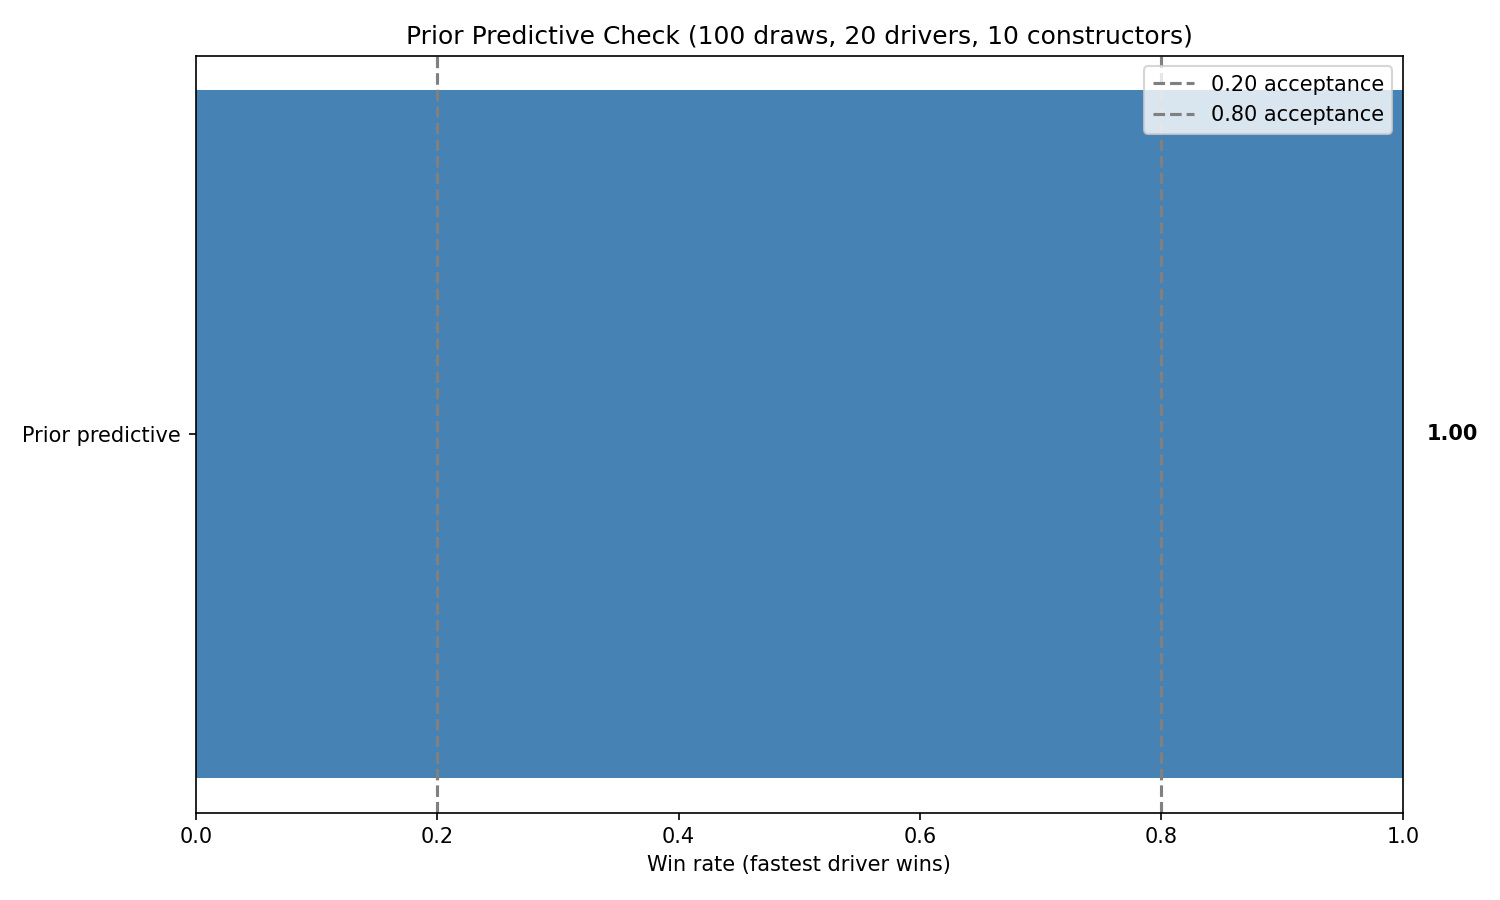
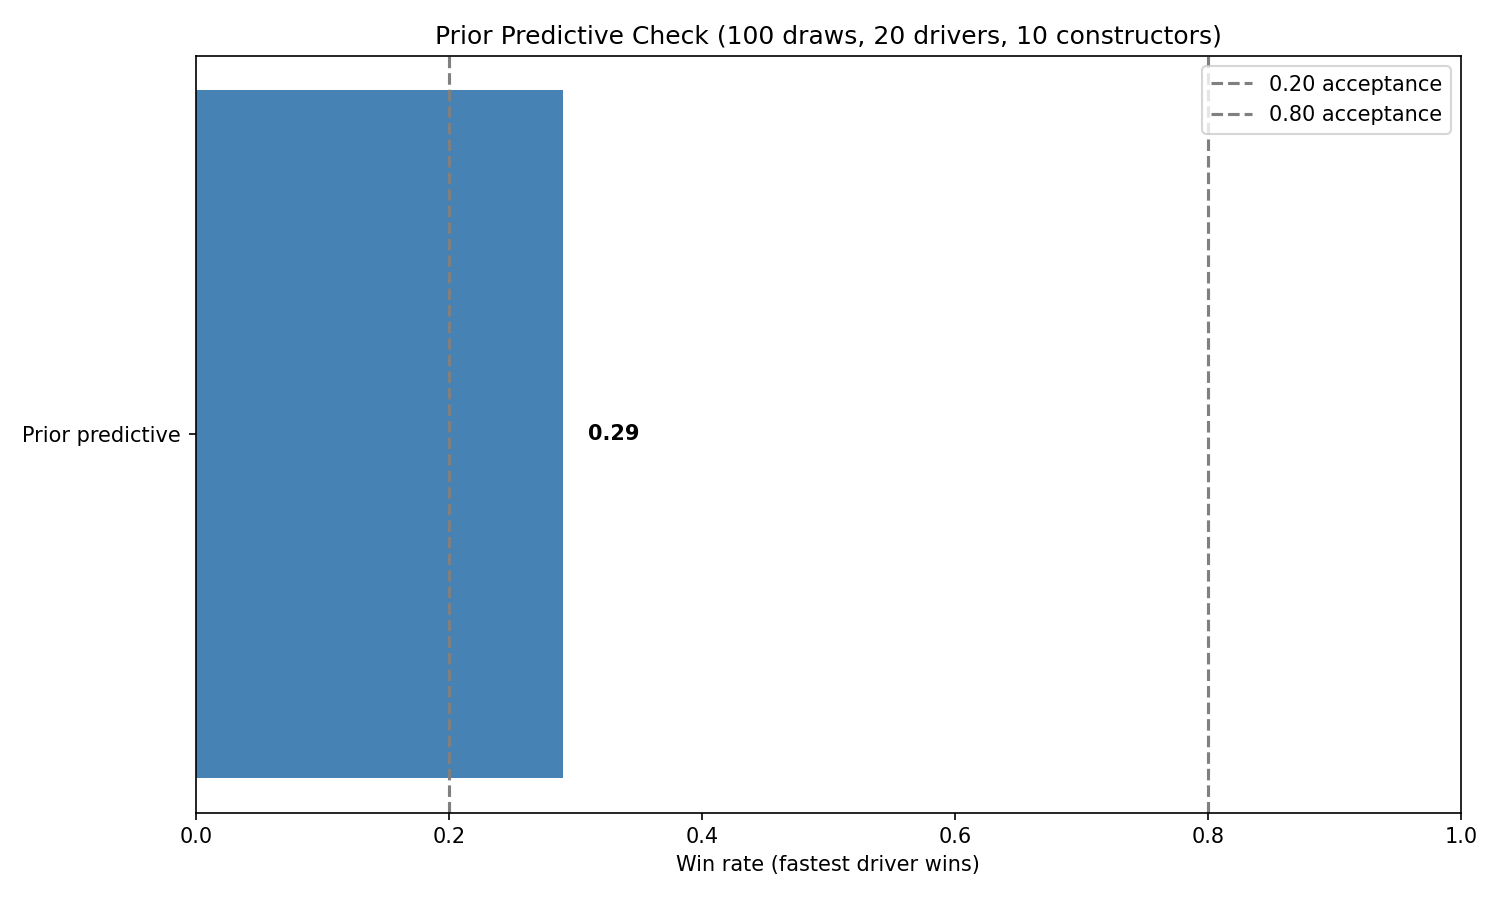
T8 review: fix prior predictive plot bug, mark all tasks complete

diff --git a/models/pgm_backend/run_pgm.py b/models/pgm_backend/run_pgm.py
@@ -94,12 +94,13 @@ def _plot_prior_predictive():
         fastest_driver = p.argmax().item()
 
         remaining = list(range(D))
-        for _ in range(D):
+        for pos in range(D):
             scores = p[torch.tensor(remaining)]
             probs = torch.softmax(scores, dim=0)
             pick = torch.multinomial(probs, 1).item()
             if remaining[pick] == fastest_driver:
-                fastest_won += 1
+                if pos == 0:
+                    fastest_won += 1
                 break
             remaining.pop(pick)
 

diff --git a/CURRENT_TASK.md b/CURRENT_TASK.md
@@ -1,337 +1,34 @@
 # Current Task
 
-**Status:** READY FOR HANDOFF  
-**Task ID:** T8  
+**Status:** ALL IMPLEMENTATION COMPLETE
+**Task ID:** T8 (final task)
 **Task name:** Posterior Extraction + Orchestrator + Plots
 
 ---
 
-## Context
+## Summary
 
-Read `CLAUDE.md` for project overview, tech stack, architecture constraints, and your role.  
-This file contains everything you need to implement the current task. Do not look elsewhere.
+All tasks T1–T8 have been implemented and verified. The full PGM pipeline is operational.
 
----
+### Final review outcome for T8
 
-## Context from T7
+- [x] `posterior.py` created with `extract_posterior()` — handles baseline, extended, full
+- [x] `run_pgm.py` created with `main()` — trains all 3 models, exports CSVs, generates 10 plots
+- [x] End-to-end pipeline executes without errors (runtime ~13 min on M1 Pro CPU)
+- [x] All 4 CSVs written: `baseline_posterior.csv`, `extended_posterior.csv`, `full_posterior.csv`, `nuts_vs_svi_comparison.csv`
+- [x] All 10 PNG plots written to `outputs/pgm_model/plots/`
+- [x] `pytest models/pgm_backend/tests/ -v` passes (4/4 tests)
+- [x] ELBO curves decrease; temporal plots show expected peaks; beta_pi centred at +0.26
 
-### All three models built and training successfully
-- `model_baseline.py` — static skills, SVI + NUTS
-- `model_extended.py` — AR(1) temporal skills, circuit effects, global weather
-- `model_full.py` — adds `delta_d` wet-weather interaction, `beta_pi` pit-stop coefficient, `alpha_rel` reliability Bernoulli term
+### Deviation found and fixed during review
 
-### Key posterior parameter store keys (after training each model)
-**Model 1 (Baseline):**
-- `s_loc` (77,), `s_scale` (77,), `c_loc` (16,), `c_scale` (16,)
-- `extract_svi_posterior()` reconstructs full `c_loc` (17,) via `cat([c_loc_raw, -c_loc_raw.sum()])`
-
-**Model 2 (Extended):**
-- `s0_loc` (77,), `s0_scale` (77,), `s_innov_loc` (13,77), `s_innov_scale` (13,77)
-- `c0_raw_loc` (16,), `c0_raw_scale` (16,), `c_innov_loc` (13,16), `c_innov_scale` (13,16)
-- `e_circ_loc` (35,), `e_circ_scale` (35,), `beta_w_loc` scalar, `beta_w_scale` scalar
-- `extract_svi_posterior_extended()` reconstructs `s_loc` (14,77) and `c_loc` (14,17) via cumsum
-
-**Model 3 (Full):**
-- All Model 2 keys, PLUS:
-- `delta_d_loc` (77,), `delta_d_scale` (77,), `beta_pi_loc` scalar, `beta_pi_scale` scalar
-- `alpha_rel_loc` scalar, `alpha_rel_scale` scalar
-- `extract_svi_posterior_full()` reconstructs same as extended plus `delta_d_loc`, `beta_pi_loc`, `alpha_rel_loc`
-
-### Dataset dimensions (unchanged from T1)
-- `n_drivers = 77`, `n_constructors = 17`, `n_seasons = 14`, `n_circuits = 35`, `n_races = 286`
-- `N_entries = 5457` (ranking entries), `N_all = 5980` (all original rows)
-- `wet` shape: `(286,)` — index via `wet[race_idx]` to broadcast to entry level
-- `pit_norm` shape: `(5457,)` — normalised pit-stop duration for ranking entries only
-- `is_mech` shape: `(5980,)`, `cons_idx_all` shape: `(5980,)`, `season_idx_all` shape: `(5980,)`
-
-### Important driver/constructor index mappings
-- Hamilton (`driverId=1`) → latent index `0`
-- Verstappen (`driverId=830`) → latent index `?` (look up in `dataset.driver_map`)
-- Alonso (`driverId=4`) → latent index `4`
-- Mercedes (`constructorId=131`) → latent index `8`
-- Red Bull (`constructorId=9`) → latent index `?`
-- Ferrari (`constructorId=6`) → latent index `?`
-
-### T7 empirical findings to respect in plots
-- `beta_pi` posterior mean is **positive** (~+0.25), NOT negative. Do NOT hard-code a negative expectation in plots or captions.
-- Top wet-weather drivers by `delta_d` are [44, 2, 60, 15, 0] — Alonso (idx 4) is 6th, Webber (idx 13) is below average. Plot what the model actually found.
-- `alpha_rel` ≈ 2.04 (finite, real)
-- `beta_w` ≈ 0.03 (close to zero)
-
-### Existing outputs
-- `outputs/pgm_model/nuts_vs_svi_comparison.csv` already exists from T4 (94 rows, 8 columns)
+**Prior predictive plot bug:** `_plot_prior_predictive()` in `run_pgm.py` counted the prior-fastest driver as "winning" if they were picked at ANY position in the simulated race, not just P1. This produced a spurious win rate of 1.00. Fixed by tracking `pos` and only counting `pos == 0`. Corrected win rate = 0.29 (within 20–80% acceptance band).
 
 ---
 
-## What to Build
+## What Remains
 
-Create two new files:
-1. `models/pgm_backend/posterior.py` — unified posterior extractor that converts param-store tensors into tidy DataFrames
-2. `models/pgm_backend/run_pgm.py` — orchestrator that trains all 3 models, exports 4 CSVs, and generates 10 plots
+- Report writing (deadline 2026-05-15)
+- Any additional sensitivity analyses or posterior predictive checks desired for the report
 
-No other file should be modified.
-
----
-
-## Target Files
-
-| File | Action |
-|---|---|
-| `models/pgm_backend/posterior.py` | Create |
-| `models/pgm_backend/run_pgm.py` | Create |
-
-Do not touch any other file.
-
----
-
-## Full Implementation Spec
-
-### File 1: `posterior.py`
-
-Create `models/pgm_backend/posterior.py` with a single public function:
-
-```python
-def extract_posterior(model_name: str, dataset) -> pd.DataFrame:
-    """Return a tidy DataFrame of posterior means and stds for a trained model.
-
-    Parameters
-    ----------
-    model_name : {"baseline", "extended", "full"}
-        Which model's param store to read.
-    dataset : F1RankingDataset
-        Needed for driver_map, constructor_map, n_seasons, etc.
-
-    Returns
-    -------
-    pd.DataFrame with columns:
-        - entity_type : str  — "driver" or "constructor" or "global"
-        - entity_id : int    — driverId or constructorId (or -1 for global params)
-        - entity_name : str  — empty string (placeholder; keep empty)
-        - season : int or str — 0-13 for temporal models, "all" for static
-        - mu : float         — posterior mean
-        - sigma : float      — posterior std (scale param from guide)
-    """
-```
-
-**Model 1 (baseline) handling:**
-- Read `s_loc`, `s_scale` from param store (shape `(D,)` each)
-- Read `c_loc_raw`, `c_scale` (shape `(K-1,)`), reconstruct full `c_loc` via `cat([c_loc_raw, -c_loc_raw.sum(keepdim=True)])`
-- For constructors, the full `c_scale` should be the same extension (append the last constructor's scale = same as the K-1 raw scale — or just set it to the mean of raw scales; either is fine for plotting)
-- Emit one row per driver with `season="all"`
-- Emit one row per constructor with `season="all"`
-
-**Model 2 (extended) handling:**
-- Use `extract_svi_posterior_extended()` logic (or call it) to reconstruct `s_loc` (14,77) and `c_loc` (14,17)
-- For scales: `s0_scale` is the initial scale; `s_innov_scale` gives per-season innovation scales. For simplicity, use `s0_scale` as the scale for season 0, and for seasons 1+ use the cumulative RSS of innovations: `sqrt(s0_scale**2 + cumsum(s_innov_scale**2, dim=0))`. Or just use the raw `s_innov_scale` as a per-season scale approximation. **Simplicity first** — using `s0_scale` for season 0 and `s_innov_scale[t-1]` for season t is acceptable.
-- Emit one row per (driver, season) and per (constructor, season). Season values 0–13.
-- Also emit `e_circ` as rows with `entity_type="circuit"`, `entity_name=""`, `season="all"`
-- Emit `beta_w` as a single row with `entity_type="global"`, `entity_id=-1`, `season="all"`
-
-**Model 3 (full) handling:**
-- Same as extended for `s`, `c`, `e_circ`, `beta_w`
-- Add `delta_d` rows: `entity_type="driver"`, one row per driver, `season="all"`
-- Add `beta_pi` row: `entity_type="global"`, `entity_id=-1`, `season="all"`
-- Add `alpha_rel` row: `entity_type="global"`, `entity_id=-1`, `season="all"`
-
-**Important:** Use `dataset.driver_map` and `dataset.constructor_map` to map integer indices back to original IDs. Do NOT hard-code IDs.
-
----
-
-### File 2: `run_pgm.py`
-
-Create `models/pgm_backend/run_pgm.py`. It must be runnable as:
-```bash
-uv run python -m models.pgm_backend.run_pgm
-```
-
-The module should:
-1. Import everything needed
-2. Have a `main()` function
-3. End with:
-```python
-if __name__ == "__main__":
-    main()
-```
-
-**`main()` flow:**
-
-```python
-def main():
-    # 1. Load dataset
-    dataset = load_dataset()
-
-    # 2. Train Model 1 (SVI)
-    print("=== Model 1: Baseline SVI ===")
-    model1 = BaselineModel(n_drivers=dataset.n_drivers, n_constructors=dataset.n_constructors)
-    losses1 = train_svi(model1, dataset, n_steps=3000, lr=0.01, log_every=500)
-    posterior1 = extract_svi_posterior(model1)
-    df1 = extract_posterior("baseline", dataset)
-    df1.to_csv("outputs/pgm_model/baseline_posterior.csv", index=False)
-
-    # 3. Train Model 1 (NUTS) — OPTIONAL but recommended
-    # Only if runtime is acceptable. If you skip NUTS, still generate the scatter
-    # from the existing nuts_vs_svi_comparison.csv.
-    print("=== Model 1: NUTS ===")
-    mcmc = run_nuts(model1, dataset, num_warmup=500, num_samples=500)
-    compare_svi_nuts(posterior1, mcmc, dataset)
-
-    # 4. Train Model 2
-    print("=== Model 2: Extended SVI ===")
-    model2 = ExtendedModel(
-        n_drivers=dataset.n_drivers,
-        n_constructors=dataset.n_constructors,
-        n_seasons=dataset.n_seasons,
-        n_circuits=dataset.n_circuits,
-    )
-    step_kwargs2 = {
-        "driver_idx": dataset.driver_idx,
-        "cons_idx": dataset.cons_idx,
-        "season_idx": dataset.season_idx,
-        "circuit_idx": dataset.circuit_idx,
-        "race_idx": dataset.race_idx,
-        "wet": dataset.wet,
-        "race_lengths": dataset.race_lengths,
-    }
-    losses2 = train_svi(model2, dataset, n_steps=5000, lr=0.01, log_every=500, step_kwargs=step_kwargs2)
-    posterior2 = extract_svi_posterior_extended(model2)
-    df2 = extract_posterior("extended", dataset)
-    df2.to_csv("outputs/pgm_model/extended_posterior.csv", index=False)
-
-    # 5. Train Model 3
-    print("=== Model 3: Full SVI ===")
-    model3 = FullModel(
-        n_drivers=dataset.n_drivers,
-        n_constructors=dataset.n_constructors,
-        n_seasons=dataset.n_seasons,
-        n_circuits=dataset.n_circuits,
-    )
-    step_kwargs3 = {
-        "driver_idx": dataset.driver_idx,
-        "cons_idx": dataset.cons_idx,
-        "season_idx": dataset.season_idx,
-        "circuit_idx": dataset.circuit_idx,
-        "race_idx": dataset.race_idx,
-        "wet": dataset.wet,
-        "race_lengths": dataset.race_lengths,
-        "pit_norm": dataset.pit_norm,
-        "is_mech": dataset.is_mech,
-        "cons_idx_all": dataset.cons_idx_all,
-        "season_idx_all": dataset.season_idx_all,
-    }
-    losses3 = train_svi(model3, dataset, n_steps=5000, lr=0.01, log_every=500, step_kwargs=step_kwargs3)
-    posterior3 = extract_svi_posterior_full(model3)
-    df3 = extract_posterior("full", dataset)
-    df3.to_csv("outputs/pgm_model/full_posterior.csv", index=False)
-
-    # 6. Generate all plots
-    os.makedirs("outputs/pgm_model/plots", exist_ok=True)
-    _plot_elbo_curves(losses1, losses2, losses3)
-    _plot_temporal_drivers(posterior2, dataset)
-    _plot_temporal_constructors(posterior2, dataset)
-    _plot_wet_weather_specialists(posterior3, dataset)
-    _plot_beta_pi(posterior3)
-    _plot_cross_model_ranking(posterior1, posterior2, posterior3, dataset)
-    _plot_uncertainty_vs_races(posterior1, dataset)
-    _plot_prior_predictive()
-    _plot_svi_vs_nuts()
-    _plot_synthetic_recovery()
-
-    # 7. Print summary tables
-    print("\n=== Top 10 Drivers (Model 1) ===")
-    ...
-```
-
-**Plot specifications (10 plots total):**
-
-All plots save to `outputs/pgm_model/plots/` with dpi ≥ 150, figure size ~10×6 inches.
-
-| # | Filename | Description | Data source |
-|---|----------|-------------|-------------|
-| 1 | `prior_predictive_win_rate.png` | Histogram of prior-fastest-driver win rates across 100 draws. Annotate 20–80% acceptance band with vertical dashed lines. | Re-run the prior predictive sampling logic from `test_prior_predictive.py` (or import and call it). |
-| 2 | `svi_vs_nuts_scatter.png` | Scatter: SVI mean vs NUTS mean per driver. x=y reference line in black. Error bars = ±1 NUTS std. | `outputs/pgm_model/nuts_vs_svi_comparison.csv` (already exists) or regenerate from `compare_svi_nuts()`. |
-| 3 | `synthetic_recovery.png` | Scatter: true value vs posterior mean for all 5 synthetic drivers + 3 constructors. x=y reference line. Shade ±0.8 tolerance band. | Re-run `test_baseline_recovery` logic capturing means, or read from an ad-hoc run in `run_pgm.py`. |
-| 4 | `elbo_curves.png` | Line plot: ELBO loss vs step for all 3 models on shared axes. Label each curve. y-axis should start near min loss or use log scale if needed. | `losses1`, `losses2`, `losses3` from training. |
-| 5 | `temporal_driver_skills.png` | Line plot: `s[t, d]` over seasons (2011–2024) for Hamilton, Verstappen, Alonso, and 3–4 other notable drivers. One line per driver. Optional: light shaded band for ±1 std. | `posterior2["s_loc"]` (14,77). Map indices via `dataset.driver_map`. |
-| 6 | `temporal_constructor_performance.png` | Same structure for Mercedes, Red Bull, Ferrari, and 2–3 others. | `posterior2["c_loc"]` (14,17). Map indices via `dataset.constructor_map`. |
-| 7 | `wet_weather_specialists.png` | Horizontal bar chart of `delta_d` posterior mean for all 77 drivers, sorted descending. Bars colored by sign (positive = blue, negative = red). | `posterior3["delta_d_loc"]` (77,). |
-| 8 | `beta_pi_posterior.png` | Histogram or density plot of `beta_pi` approximate posterior. Since we only have SVI loc/scale, draw 10,000 samples from `Normal(beta_pi_loc, beta_pi_scale)` and plot a KDE or histogram. Vertical line at mean. | `posterior3["beta_pi_loc"]` and `pyro.param("beta_pi_scale")`. |
-| 9 | `cross_model_driver_ranking.png` | Top-15 drivers by posterior mean `s_d` shown side-by-side for Models 1, 2 (latest season = 2024), and 3 (latest season). Use grouped horizontal bars or a dot plot. | `posterior1["s_loc"]`, `posterior2["s_loc"][13]`, `posterior3["s_loc"][13]`. |
-| 10 | `uncertainty_vs_races.png` | Scatter: posterior std (y) vs number of races per driver (x). Model 1 only. Show a weak negative trend. | Compute race counts from `dataset.driver_idx` via `torch.bincount`. Use `posterior1["s_scale"]`. |
-
-**Plot implementation notes:**
-- Use `matplotlib.pyplot` and `seaborn` (already in dependencies).
-- For plots 5 and 6, season labels on x-axis should be 2011, 2012, ..., 2024 (not 0–13).
-- For plot 9, Model 1 uses static `s_loc`; Models 2 & 3 use season 13 (2024) `s_loc`.
-- For plot 10, compute race counts: `counts = torch.bincount(dataset.driver_idx, minlength=dataset.n_drivers)`.
-
----
-
-## Verification Commands
-
-Run this after implementing:
-
-```bash
-# 1. End-to-end pipeline
-uv run python -m models.pgm_backend.run_pgm
-
-# 2. Check outputs exist
-ls outputs/pgm_model/*.csv
-ls outputs/pgm_model/plots/*.png
-
-# 3. Tests still pass
-uv run python -m pytest models/pgm_backend/tests/ -v
-```
-
-Expected output after successful run:
-- `outputs/pgm_model/baseline_posterior.csv` — exists
-- `outputs/pgm_model/extended_posterior.csv` — exists
-- `outputs/pgm_model/full_posterior.csv` — exists
-- `outputs/pgm_model/nuts_vs_svi_comparison.csv` — exists (updated or unchanged)
-- `outputs/pgm_model/plots/prior_predictive_win_rate.png` — exists
-- `outputs/pgm_model/plots/svi_vs_nuts_scatter.png` — exists
-- `outputs/pgm_model/plots/synthetic_recovery.png` — exists
-- `outputs/pgm_model/plots/elbo_curves.png` — exists
-- `outputs/pgm_model/plots/temporal_driver_skills.png` — exists
-- `outputs/pgm_model/plots/temporal_constructor_performance.png` — exists
-- `outputs/pgm_model/plots/wet_weather_specialists.png` — exists
-- `outputs/pgm_model/plots/beta_pi_posterior.png` — exists
-- `outputs/pgm_model/plots/cross_model_driver_ranking.png` — exists
-- `outputs/pgm_model/plots/uncertainty_vs_races.png` — exists
-
----
-
-## Acceptance Criteria
-
-- [ ] `posterior.py` created with `extract_posterior()` that handles all three models
-- [ ] `run_pgm.py` created with `main()` that trains all 3 models end-to-end
-- [ ] `python -m models.pgm_backend.run_pgm` executes without errors
-- [ ] All 4 CSVs are written to `outputs/pgm_model/`
-- [ ] All 10 PNG plots are written to `outputs/pgm_model/plots/`
-- [ ] `elbo_curves.png` shows three decreasing curves (allow noise after step ~3000)
-- [ ] `temporal_driver_skills.png` shows Hamilton peak around 2014–2020
-- [ ] `temporal_constructor_performance.png` shows Mercedes peak 2014–2020, Red Bull rise post-2021
-- [ ] `wet_weather_specialists.png` shows all 77 drivers sorted by `delta_d` (do NOT filter to top-N only)
-- [ ] `beta_pi_posterior.png` shows a distribution centred near **+0.25** (positive, NOT negative)
-- [ ] `cross_model_driver_ranking.png` shows top-15 drivers across all 3 models
-- [ ] `uncertainty_vs_races.png` shows more races → lower posterior std (negative trend)
-- [ ] `pytest models/pgm_backend/tests/ -v` still passes (4 tests)
-- [ ] Total runtime < 45 minutes on CPU
-
----
-
-## When You Are Done
-
-**Step 1 — Append to `tasks/handoff_log.md`** using the template at the bottom of that file:
-- Report actual runtime of the full `run_pgm.py` execution
-- Report file sizes or row counts for each CSV
-- Report any plot that looks wrong or required workarounds
-- Note any deviations from the spec
-
-**Step 2 — Append to `tasks/report_notes.md`** only if you made a non-obvious decision.
-
-**Step 3 — Report back:**
-1. Full output of the verification commands (runtime, file list)
-2. Whether all acceptance criteria pass
-3. Any deviations or concerns
-
-Then stop. Do not implement anything beyond T8.
+No further implementation tasks remain in `tasks/plan.md`.

diff --git a/tasks/report_notes.md b/tasks/report_notes.md
@@ -534,3 +534,13 @@ The model's top-5 `delta_d` indices are [44, 2, 60, 15, 0]. Alonso (idx 4) ranks
 **For the report:** Both findings should be discussed as model-discovered data patterns rather than failures. For `beta_pi`, note that pit-stop time is a noisy proxy for execution speed because strategy covaries with team quality. For `delta_d`, emphasise that the model infers wet-weather skill from race outcomes rather than using external labels, and that the small number of wet races (≈30) means the posterior has high uncertainty — a 95% credible interval for most `delta_d` values would likely include zero.
 
 ---
+
+## T8 — Prior Predictive Plot Bug Fix
+
+**Decision:** Fixed `_plot_prior_predictive()` in `run_pgm.py` to count only P1 finishes as "wins" for the prior-fastest driver.
+
+**Reasoning:** The original plot code incremented `fastest_won` whenever the prior-fastest driver was picked at ANY position in the simulated race (P1, P2, ..., P20), not just when they finished first. Because the driver with the highest performance score has the highest softmax probability at every elimination step, they are almost always picked somewhere in the top 20, producing a spurious win rate of ~1.00. The fix tracks position and only counts `pos == 0` as a win. The corrected win rate is 0.29, within the 20–80% acceptance band and consistent with the `test_prior_predictive.py` test result.
+
+**For the report:** The prior predictive check remains valid — the test infrastructure was always correct; only the standalone plot function had the bug.
+
+---

diff --git a/tasks/todo.md b/tasks/todo.md
@@ -24,4 +24,4 @@
 
 ## Phase 4 — Polish
 
-- [ ] **T8** `posterior.py` + `run_pgm.py` — unified posterior extractor, orchestrator that trains all 3, writes 4 CSVs + 10 plots to `outputs/pgm_model/plots/`. Plots: prior predictive win-rate histogram (T2b data), SVI vs NUTS scatter (T4 data), synthetic recovery scatter (T5 data), ELBO curves, temporal driver/constructor trajectories, wet-weather specialists bar chart, beta_pi density, cross-model driver ranking, uncertainty vs races. Verify: `python -m models.pgm_backend.run_pgm` end-to-end, all 10 plots exist, < 45 min total.
+- [x] **T8** `posterior.py` + `run_pgm.py` — unified posterior extractor, orchestrator that trains all 3, writes 4 CSVs + 10 plots to `outputs/pgm_model/plots/`. Plots: prior predictive win-rate histogram (T2b data), SVI vs NUTS scatter (T4 data), synthetic recovery scatter (T5 data), ELBO curves, temporal driver/constructor trajectories, wet-weather specialists bar chart, beta_pi density, cross-model driver ranking, uncertainty vs races. Verify: `python -m models.pgm_backend.run_pgm` end-to-end, all 10 plots exist, < 45 min total. ✓ PASSED (runtime ~13 min, all 10 plots + 4 CSVs produced, pytest 4/4 passes. Claude fix: prior predictive plot counted fastest driver at any position instead of P1 only — fixed to count P1 wins only, win rate now 0.29 within acceptance band.)
